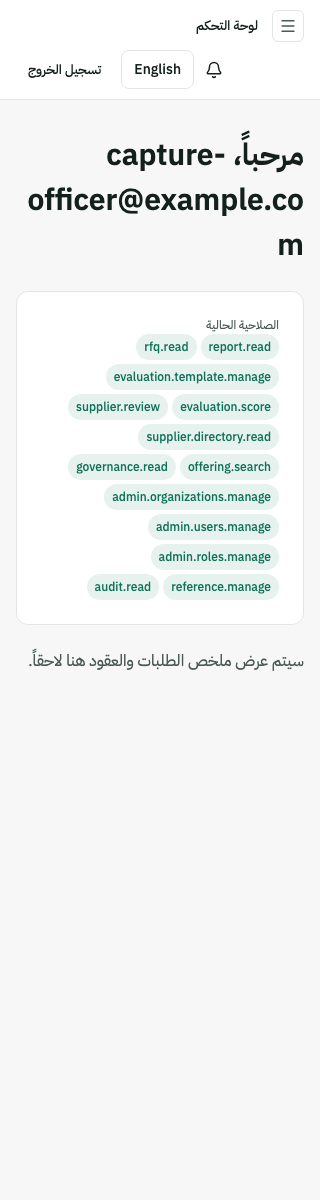
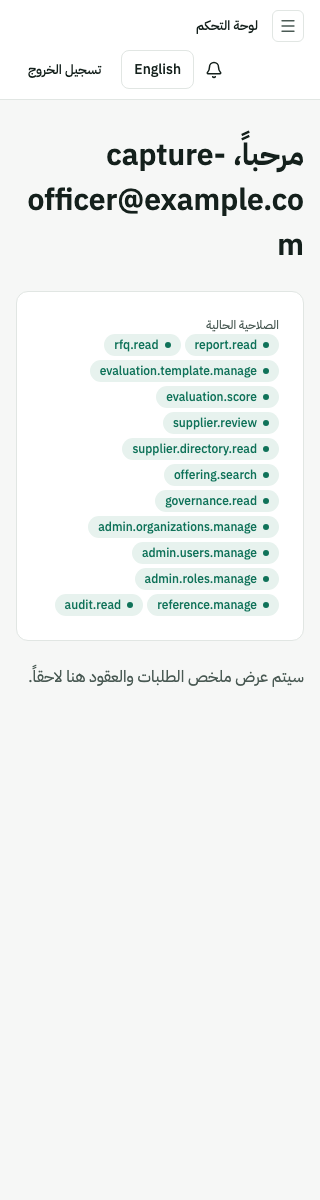
Phase C: the shared components wear the approved system, and no screen was edited
Six of the seventeen shared components carried a look that predated the redesign. They now carry
the approved one. Nothing else changed: no component's props moved, no screen was touched, and
all 784 unit tests and 232 end-to-end checks pass with not one test edited. That was the phase's
definition of done and it is the whole claim.

WHAT CHANGED, AND WHY EACH ONE

Table's header is the template's signature and was the biggest gap: sentence-case secondary text
became uppercase at caption size with open tracking, over a rule. It now reads as a label for the
column rather than as a short first row, which is what stops a dense table looking like a wall of
equal-weight text. Cell padding went from 8px to 12px vertically, because 33 of the 65 screens
are table-first and the rows were tighter than the template's.

Rows answer a pointer now. That is a CSS rule rather than an inline style, because a hover state
is not a style - and it is deliberately weaker than one, so a cell that sets its own background,
a flagged row or a pinned first column, keeps it. The precedence is the correct way round rather
than an accident, and the comment says so.

Card grew a header band with a rule under it. Before, the title floated inside one padded box
with the content, and a reader had to take the first line on faith as a title.

Badge grew the template's dot. It is decoration and says so in markup: the label beside it is the
[…]

Changed region(s): [[0.0938, 0.2775, 0.9375, 0.5858]]

diff --git a/src/frontend/src/components/ui/Table.tsx b/src/frontend/src/components/ui/Table.tsx
@@ -52,10 +52,14 @@ export function TableHeaderCell({
   return (
     <th
       scope={scope}
-      className={`px-4 py-2 text-start font-[var(--fw-semibold)] ${className}`}
+      // Uppercase at caption size with open tracking, which is the approved template's header. It
+      // reads as a label for the column rather than as a short first row, and it is what stops a
+      // dense table looking like a wall of equal-weight text.
+      className={`px-4 py-2.5 text-start text-[length:var(--text-caption)] font-[var(--fw-semibold)] uppercase tracking-[0.06em] ${className}`}
       style={{
         color: 'var(--color-text-secondary)',
         backgroundColor: 'var(--color-bg-sunken)',
+        borderBlockEnd: '1px solid var(--color-border)',
         ...(sticky ? { position: 'sticky', insetInlineStart: 0, zIndex: 1 } : {}),
         ...style,
       }}
@@ -71,7 +75,10 @@ export function TableBody({ children }: { children: ReactNode }) {
 
 export function TableRow({ children }: { children: ReactNode }) {
   return (
-    <tr className="border-t" style={{ borderColor: 'var(--color-border)' }}>
+    // `msp-row` is a hover rule rather than an inline style because a pointer state cannot be one.
+    // Cells that set their own background - flagged and pinned ones - keep it: an inline style wins
+    // over the class, which is the correct precedence and not an accident.
+    <tr className="msp-row border-t" style={{ borderColor: 'var(--color-border)' }}>
       {children}
     </tr>
   )
@@ -82,7 +89,7 @@ export function TableCell({
 }: { children: ReactNode; sticky?: boolean; highlight?: boolean; className?: string; style?: CSSProperties }) {
   return (
     <td
-      className={`px-4 py-2 ${className}`}
+      className={`px-4 py-3 ${className}`}
       style={{
         color: 'var(--color-text-primary)',
         backgroundColor: rowBackground(highlight, sticky),

diff --git a/src/frontend/src/components/ui/Card.tsx b/src/frontend/src/components/ui/Card.tsx
@@ -11,7 +11,7 @@ interface CardProps {
 export function Card({ title, action, children }: CardProps) {
   return (
     <div
-      className="rounded-[var(--radius-lg)] p-6"
+      className="overflow-hidden rounded-[var(--radius-lg)]"
       // §6.7: surface, 1px border, --radius-lg, --shadow-sm. The border does the separating; the
       // shadow is the faintest step on the scale, not a lift.
       style={{
@@ -20,10 +20,18 @@ export function Card({ title, action, children }: CardProps) {
         boxShadow: 'var(--shadow-sm)',
       }}
     >
+      {/*
+        A band rather than a heading floating above the content, which is the approved template's card.
+        The rule under it is what separates the card's own name from what the card holds - before this
+        the two sat in one padded box and a reader had to take the first line on faith as a title.
+      */}
       {title || action ? (
-        <div className="mb-3 flex items-center justify-between gap-3">
+        <div
+          className="flex items-center justify-between gap-3 px-4 py-3.5"
+          style={{ borderBlockEnd: '1px solid var(--color-border)' }}
+        >
           {title ? (
-            <h2 className="text-[length:var(--text-h4)] font-[var(--fw-semibold)]" style={{ color: 'var(--color-text-primary)' }}>
+            <h2 className="text-[length:var(--text-body)] font-[var(--fw-semibold)]" style={{ color: 'var(--color-text-primary)' }}>
               {title}
             </h2>
           ) : (
@@ -32,7 +40,7 @@ export function Card({ title, action, children }: CardProps) {
           {action}
         </div>
       ) : null}
-      {children}
+      <div className="p-4">{children}</div>
     </div>
   )
 }

diff --git a/src/frontend/src/components/ui/Badge.tsx b/src/frontend/src/components/ui/Badge.tsx
@@ -33,9 +33,15 @@ export function Badge({ tone = 'neutral', children }: BadgeProps) {
   const t = toneStyle[tone]
   return (
     <span
-      className="inline-flex items-center rounded-full px-2 py-1 text-[length:var(--text-caption)] font-[var(--fw-medium)]"
+      className="inline-flex items-center gap-1.5 whitespace-nowrap rounded-full px-2.5 py-0.5 text-[length:var(--text-caption)] font-[var(--fw-medium)]"
       style={{ backgroundColor: t.bg, color: t.fg }}
     >
+      {/*
+        Decoration, and deliberately not the only thing carrying the state: the label beside it is the
+        state, and this chip has never been colour-alone. What the dot buys is a fixed point at the
+        start of every chip, so a column of them lines up and can be scanned down rather than read.
+      */}
+      <span aria-hidden="true" className="size-1.5 shrink-0 rounded-full" style={{ backgroundColor: 'currentColor' }} />
       {children}
     </span>
   )

diff --git a/src/frontend/src/index.css b/src/frontend/src/index.css
@@ -55,6 +55,15 @@ body {
 /* DESIGN-SYSTEM.md §6.2: "hover (border --n-400)". Gated behind a real pointer, because a touch device
    fires hover on tap and would leave the field looking hovered after the finger lifts. Never on a field
    that is refusing input. */
+/* A table row should answer a pointer. It cannot be an inline style, because a pointer state is not a
+   style - and it is deliberately weaker than one: a cell that sets its own background (a flagged row, a
+   pinned first column) keeps it, because that background is why the row is worth looking at. */
+@media (hover: hover) and (pointer: fine) {
+  .msp-row:hover > td {
+    background-color: var(--color-bg-hover);
+  }
+}
+
 /* A button should answer the press. 120ms on the product's own motion token, scale kept subtle, and
    never on a button that is refusing the click. The global reduced-motion rule below flattens it. */
 .msp-pressable:not(:disabled):active {

diff --git a/src/frontend/src/components/ui/FactList.tsx b/src/frontend/src/components/ui/FactList.tsx
@@ -22,7 +22,9 @@ export function FactList({ facts }: Readonly<{ facts: readonly Fact[] }>) {
       {facts.map((fact) => (
         <div key={fact.key} className="contents">
           <dt style={{ color: 'var(--color-text-secondary)' }}>{fact.label}</dt>
-          <dd className="m-0 text-end tabular-nums" style={{ color: 'var(--color-text-primary)' }}>
+          {/* The numeric face rather than the body one: a column of figures only lines up if the
+              digits are the same width, which is what --font-numeric is for. */}
+          <dd className="m-0 text-end" style={{ color: 'var(--color-text-primary)', fontFamily: 'var(--font-numeric)', fontVariantNumeric: 'tabular-nums' }}>
             {fact.value}
           </dd>
         </div>

diff --git a/src/frontend/src/components/ui/NextActionCard.tsx b/src/frontend/src/components/ui/NextActionCard.tsx
@@ -21,7 +21,7 @@ export function NextActionCard({ title, children, action }: Readonly<{
     <section
       aria-labelledby="next-action-title"
       className="rounded-[var(--radius-lg)] p-4"
-      style={{ backgroundColor: 'var(--color-brand-subtle)', border: '1px solid var(--color-brand-solid)' }}
+      style={{ backgroundColor: 'var(--color-accent-wash)', border: '1px solid var(--color-accent-line)' }}
     >
       <h2
         id="next-action-title"

diff --git a/src/frontend/src/components/ui/Stepper.tsx b/src/frontend/src/components/ui/Stepper.tsx
@@ -55,7 +55,7 @@ function markStyle(state: StepState) {
     return {
       backgroundColor: 'var(--color-brand-solid)',
       border: '2px solid var(--color-brand-solid)',
-      boxShadow: '0 0 0 3px var(--color-brand-subtle)',
+      boxShadow: '0 0 0 3px var(--color-accent-wash)',
     }
   }
   return { backgroundColor: 'transparent', border: '2px solid var(--color-border-strong)' }
